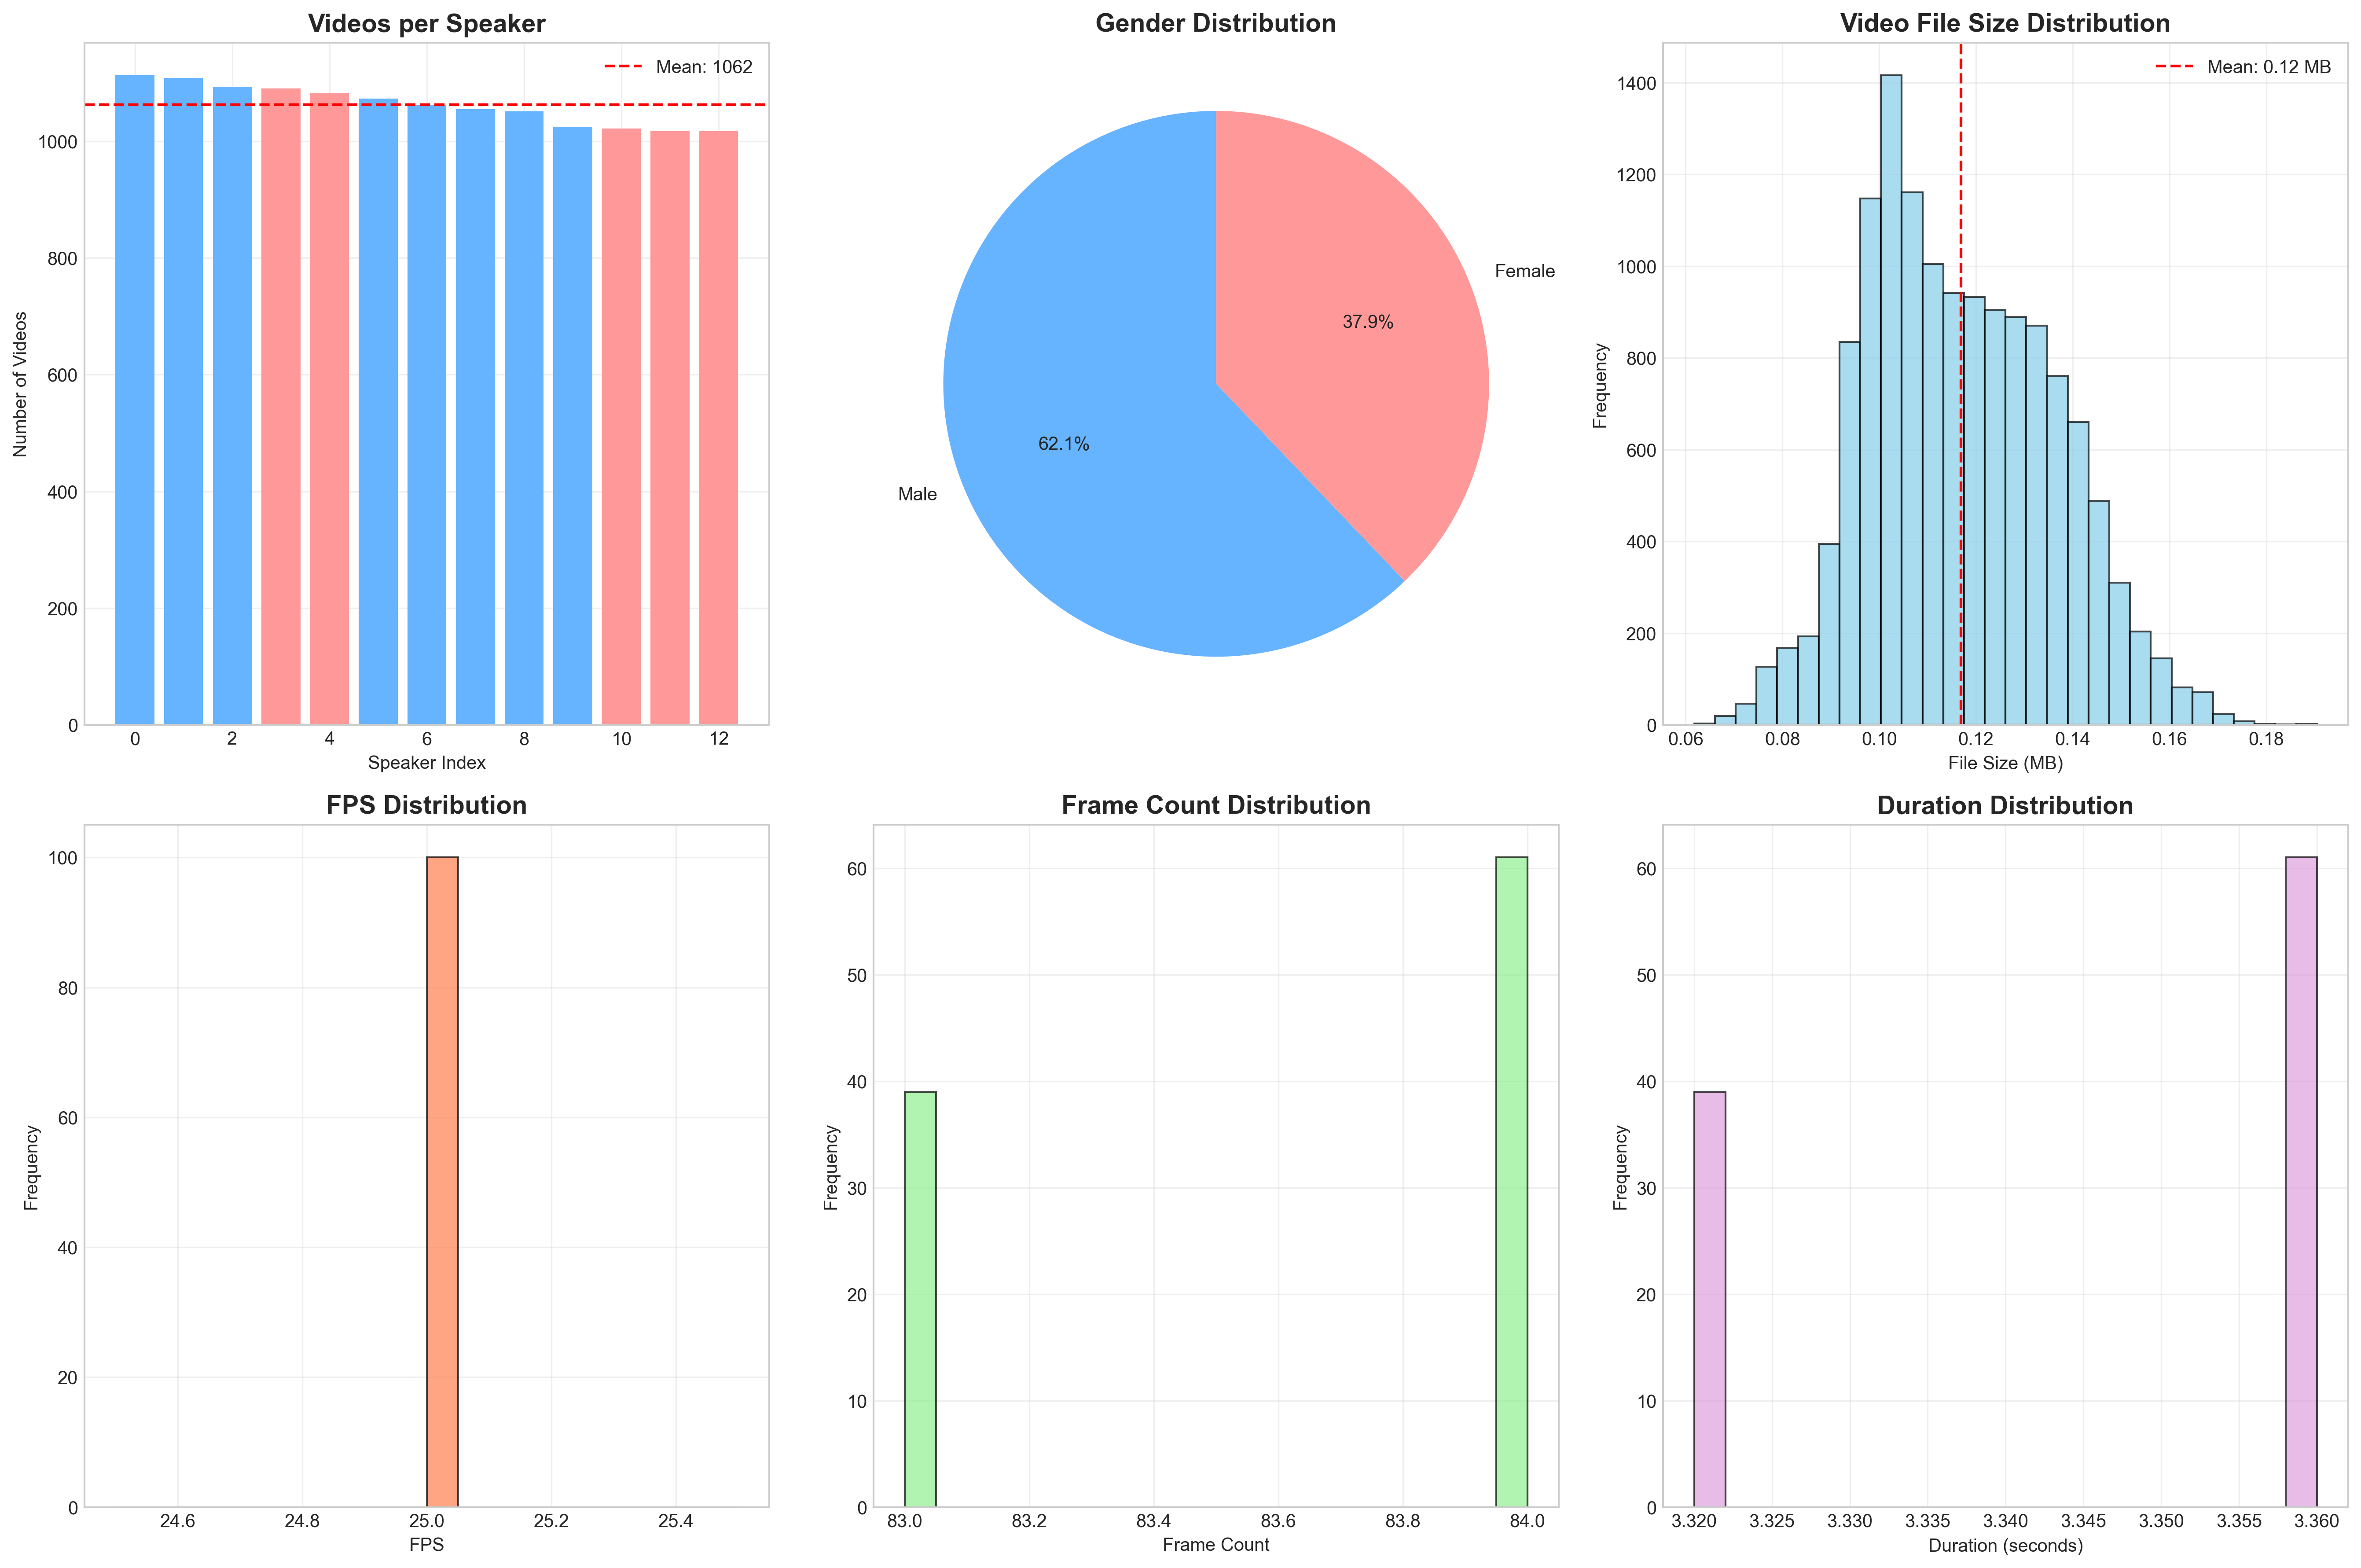
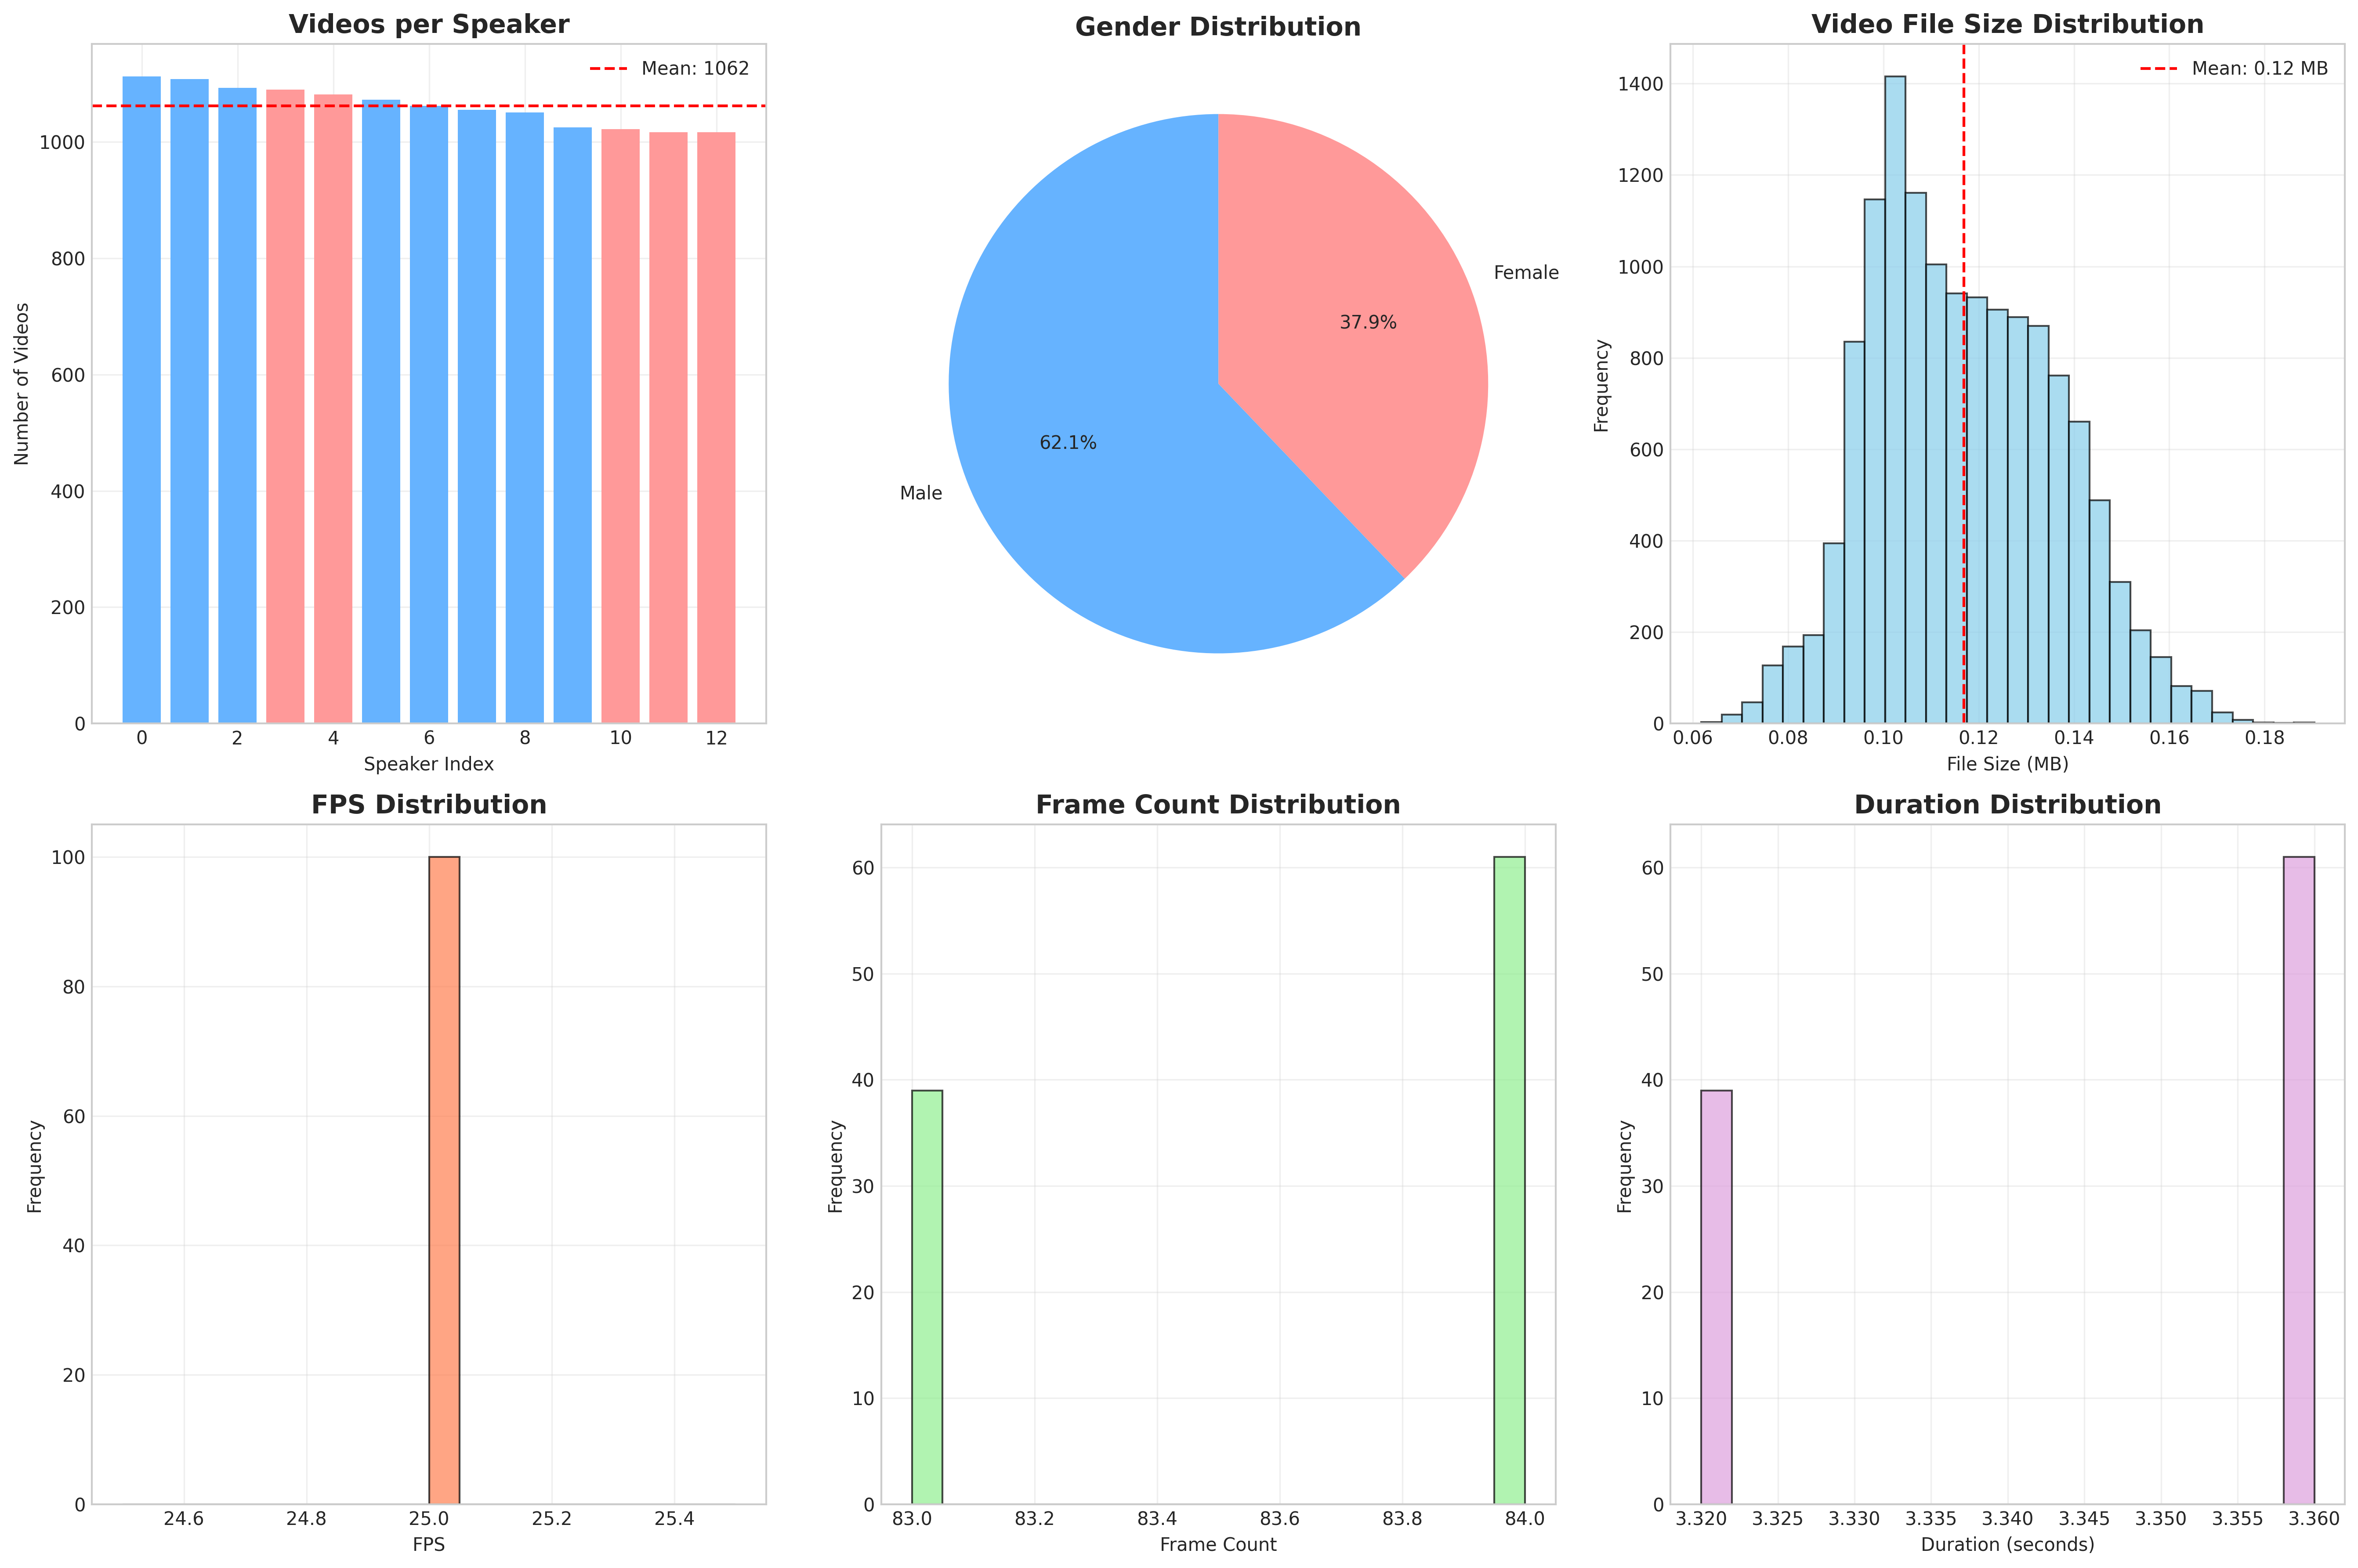
Update to Using Pretrain Resnet for Frontend

diff --git a/Train/train_lip_reading.py b/Train/train_lip_reading.py
@@ -13,6 +13,7 @@ import torch.nn.functional as F
 import torch.optim as optim
 from torch.utils.data import Dataset, DataLoader
 from torch.nn.utils.rnn import pad_sequence
+from torchvision.models.video import r2plus1d_18
 
 import albumentations as A
 from albumentations.pytorch import ToTensorV2
@@ -48,7 +49,7 @@ set_seed(42)
 
 class Config:
     # Paths
-    DATASET_PATH = "C:\\Users\\Yoel\\Documents\\Binus\\Pre-Thesis\\LUMINA (Linguistic Unified Multimodal Indonesian Natural Audio-Visual)"  # CHANGE THIS
+    DATASET_PATH = "../LUMINA_Dataset"  # CHANGE THIS
     CHECKPOINT_DIR = "checkpoints"
     LOG_DIR = "logs"
     
@@ -69,10 +70,11 @@ class Config:
     
     # Training
     BATCH_SIZE = 8
-    NUM_EPOCHS = 100
-    LEARNING_RATE = 1e-4
+    NUM_EPOCHS = 50
+    LEARNING_RATE = 3e-4
     WEIGHT_DECAY = 1e-5
     GRAD_CLIP = 1.0
+    FREEZE_BACKBONE = True
     
     # Optimization
     OPTIMIZER = 'adamw'
@@ -334,59 +336,59 @@ def collate_fn(batch):
 # MODEL ARCHITECTURE
 # =====================================================================
 
-class ResNet3D_Frontend(nn.Module):
-    """3D ResNet for spatiotemporal feature extraction"""
+class ResNet2Plus1D_Frontend(nn.Module):
+    """Pretrained (2+1)D ResNet for spatiotemporal features"""
     
-    def __init__(self, pretrained=True):
+    def __init__(self, pretrained=True, freeze_backbone=False):
         super().__init__()
         
-        # Simple 3D CNN (you can replace with torchvision.models.video.r3d_18)
-        self.conv1 = nn.Conv3d(1, 64, kernel_size=(3, 7, 7), stride=(1, 2, 2), padding=(1, 3, 3))
-        self.bn1 = nn.BatchNorm3d(64)
-        self.relu = nn.ReLU(inplace=True)
-        self.maxpool = nn.MaxPool3d(kernel_size=(1, 3, 3), stride=(1, 2, 2), padding=(0, 1, 1))
+        # Load pretrained (2+1)D ResNet-18
+        # Pretrained on Kinetics-400 (action recognition dataset)
+        self.backbone = r2plus1d_18(pretrained=pretrained)
         
-        # ResNet blocks
-        self.layer1 = self._make_layer(64, 64, 2)
-        self.layer2 = self._make_layer(64, 128, 2, stride=2)
-        self.layer3 = self._make_layer(128, 256, 2, stride=2)
-        self.layer4 = self._make_layer(256, 512, 2, stride=2)
+        # Remove classification head (we only need features)
+        self.backbone.fc = nn.Identity()
         
-        self.avgpool = nn.AdaptiveAvgPool3d((None, 1, 1))
+        # Optionally freeze early layers for faster training
+        if freeze_backbone:
+            for param in list(self.backbone.parameters())[:-10]:
+                param.requires_grad = False
         
-    def _make_layer(self, in_channels, out_channels, num_blocks, stride=1):
-        layers = []
-        layers.append(nn.Conv3d(in_channels, out_channels, kernel_size=3, 
-                                stride=(1, stride, stride), padding=1))
-        layers.append(nn.BatchNorm3d(out_channels))
-        layers.append(nn.ReLU(inplace=True))
+        # Adapt from RGB (3 channels) to Grayscale (1 channel)
+        # Option A: Average RGB weights
+        original_conv = self.backbone.stem[0]
+        self.backbone.stem[0] = nn.Conv3d(
+            1, original_conv.out_channels,
+            kernel_size=original_conv.kernel_size,
+            stride=original_conv.stride,
+            padding=original_conv.padding,
+            bias=False
+        )
         
-        for _ in range(num_blocks - 1):
-            layers.append(nn.Conv3d(out_channels, out_channels, kernel_size=3, padding=1))
-            layers.append(nn.BatchNorm3d(out_channels))
-            layers.append(nn.ReLU(inplace=True))
+        # Initialize grayscale conv by averaging RGB weights
+        if pretrained:
+            with torch.no_grad():
+                # Average across RGB channels
+                self.backbone.stem[0].weight = nn.Parameter(
+                    original_conv.weight.mean(dim=1, keepdim=True)
+                )
         
-        return nn.Sequential(*layers)
+        print("✓ Loaded pretrained (2+1)D ResNet-18")
+        if freeze_backbone:
+            print("  - Backbone frozen (only last layers trainable)")
     
     def forward(self, x):
         # x: (B, T, C, H, W) -> (B, C, T, H, W)
         x = x.permute(0, 2, 1, 3, 4)
         
-        x = self.conv1(x)
-        x = self.bn1(x)
-        x = self.relu(x)
-        x = self.maxpool(x)
+        # Extract features
+        x = self.backbone(x)  # (B, 512)
         
-        x = self.layer1(x)
-        x = self.layer2(x)
-        x = self.layer3(x)
-        x = self.layer4(x)
-        
-        x = self.avgpool(x)  # (B, C, T, 1, 1)
-        x = x.squeeze(-1).squeeze(-1)  # (B, C, T)
-        x = x.permute(0, 2, 1)  # (B, T, C)
-        
-        return x
+        # Reshape to (B, T, C) for sequence modeling
+        # Note: (2+1)D pools temporally, so we need to restore T dimension
+        # For now, we'll repeat the feature to match original T
+        # In practice, you might want to use features before final pooling
+        return x.unsqueeze(1).expand(-1, 84, -1)  # (B, T, 512)
 
 
 class MambaEncoder(nn.Module):
@@ -441,13 +443,16 @@ class BiGRUDecoder(nn.Module):
 class LipReadingModel(nn.Module):
     """Complete Lip Reading Model: 3D CNN + Mamba + Bi-GRU + CTC"""
     
-    def __init__(self, config):
+    def __init__(self, config, freeze_backbone=False):
         super().__init__()
         
         self.config = config
         
         # Visual Frontend
-        self.cnn_frontend = ResNet3D_Frontend(pretrained=config.CNN_PRETRAINED)
+        self.cnn_frontend = ResNet2Plus1D_Frontend(
+                pretrained=config.CNN_PRETRAINED,
+                freeze_backbone=freeze_backbone
+            )
         
         # Mamba Encoder
         if MAMBA_AVAILABLE:
@@ -833,10 +838,10 @@ def prepare_data_splits(dataset_path, config):
         # Video files are in male/video/ or female/video/ subfolder
         video_subfolder = gender_folder / 'video'
         if video_subfolder.exists():
-            video_files = list(video_subfolder.glob('*.mp4'))
+            video_files = list(video_subfolder.glob('*.MP4'))
         else:
             # Fallback: check directly in gender folder
-            video_files = list(gender_folder.glob('*.mp4'))
+            video_files = list(gender_folder.glob('*.MP4'))
         
         for video_file in video_files:
             # Extract speaker ID
@@ -916,7 +921,7 @@ def main():
     
     # Create model
     print("\nInitializing model...")
-    model = LipReadingModel(config).to(config.DEVICE)
+    model = LipReadingModel(config, freeze_backbone=True).to(config.DEVICE)
     
     # Count parameters
     total_params = sum(p.numel() for p in model.parameters())
@@ -930,7 +935,7 @@ def main():
     # Train
     trainer.train()
     
-    print("\n✓ Training completed successfully!")
+    print("\nTraining completed successfully!")
 
 
 if __name__ == "__main__":